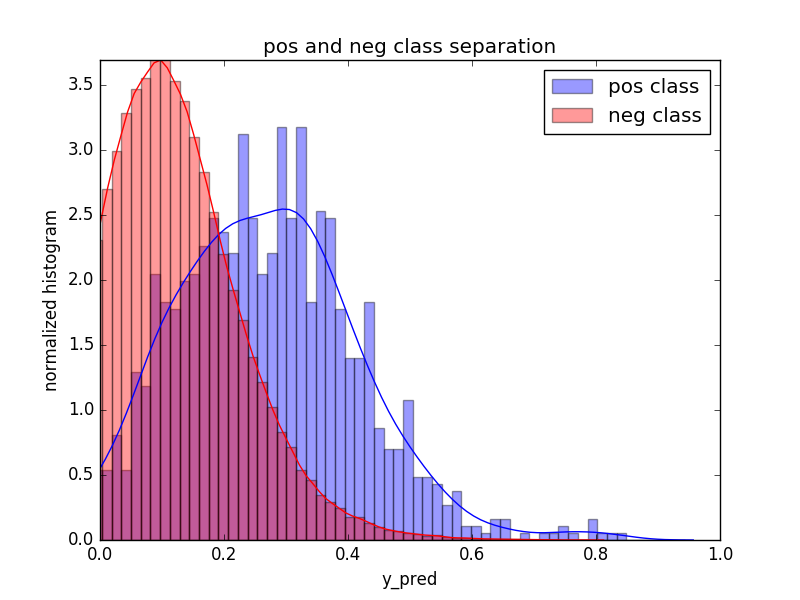
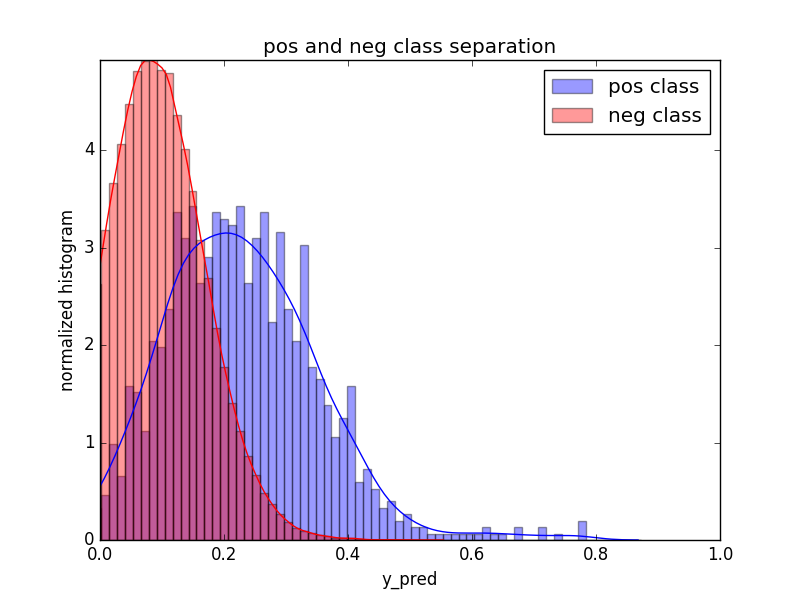
doc2vec opt params

Changed region(s): [[0.0312, 0.09, 0.8125, 0.93], [0.0938, 0.12, 0.125, 0.15]]

diff --git a/src/domain_transfer_doc2vec.py b/src/domain_transfer_doc2vec.py
@@ -87,7 +87,7 @@ source_corpus = list(read_corpus(source_text_df))
 
 print "initializing doc2vec..."
 #training parameters
-num_epochs = 16 
+num_epochs = 64 
 lr_init= 0.025
 lr_min = 0.001
 lr_delta = (lr_init - lr_min) / float(num_epochs)
